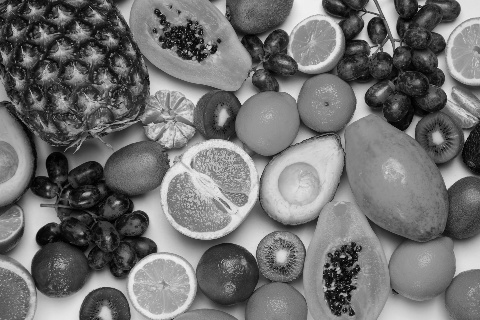
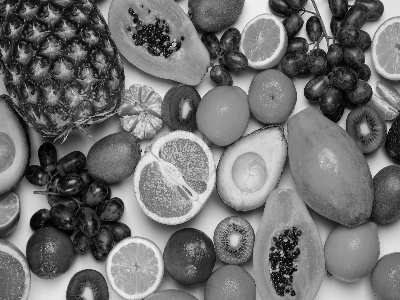
Some operations is missing

diff --git a/main.py b/main.py
@@ -5,167 +5,156 @@ import time
 import os
 
 # ==========================================
-# FUNGSI HELPER PENYIMPANAN
+# FUNGSI HELPER PENYIMPANAN & HISTOGRAM
 # ==========================================
 def save_image(img, name, folder='hasil_output'):
+    """Menyimpan gambar hasil pemrosesan ke folder hasil_output"""
     if not os.path.exists(folder):
         os.makedirs(folder)
     
-    # Konversi kembali ke BGR sebelum disimpan jika citra berwarna (RGB)
-    if len(img.shape) == 3:
-        img_to_save = cv2.cvtColor(img, cv2.COLOR_RGB2BGR)
-    else:
-        img_to_save = img
-        
+    # Konversi RGB ke BGR untuk OpenCV imwrite agar warna tidak tertukar
+    img_to_save = cv2.cvtColor(img, cv2.COLOR_RGB2BGR) if len(img.shape) == 3 else img
     path = os.path.join(folder, f"{name}.jpg")
     cv2.imwrite(path, img_to_save)
-    print(f"   [Saved] {path}")
+    print(f"   [Saved Image] {path}")
+
+def save_histogram_comparison(img_before, img_after, name, label_before="Sebelum", label_after="Sesudah", folder='hasil_output_bonus'):
+    """Membuat dan menyimpan plot perbandingan citra beserta histogramnya ke hasil_output_bonus"""
+    if not os.path.exists(folder):
+        os.makedirs(folder)
+
+    fig, axes = plt.subplots(2, 2, figsize=(12, 8))
+    
+    # Baris 1: Tampilan Citra
+    axes[0, 0].imshow(img_before, cmap='gray' if len(img_before.shape) == 2 else None)
+    axes[0, 0].set_title(f"Citra {label_before}")
+    axes[0, 1].imshow(img_after, cmap='gray' if len(img_after.shape) == 2 else None)
+    axes[0, 1].set_title(f"Citra {label_after}")
+
+    # Baris 2: Histogram
+    if len(img_before.shape) == 2: # Citra Grayscale
+        axes[1, 0].hist(img_before.ravel(), 256, [0, 256], color='black')
+        axes[1, 1].hist(img_after.ravel(), 256, [0, 256], color='black')
+    else: # Citra Berwarna (RGB)
+        colors = ('red', 'green', 'blue')
+        for i, col in enumerate(colors):
+            axes[1, 0].hist(img_before[:,:,i].ravel(), 256, [0, 256], color=col, alpha=0.5)
+            axes[1, 1].hist(img_after[:,:,i].ravel(), 256, [0, 256], color=col, alpha=0.5)
+
+    axes[1, 0].set_title(f"Histogram {label_before}")
+    axes[1, 1].set_title(f"Histogram {label_after}")
+    
+    plt.tight_layout()
+    path = os.path.join(folder, f"hist_{name}.png")
+    plt.savefig(path)
+    plt.close()
+    print(f"   [Saved Hist]  {path}")
 
 # ==========================================
-# 1. OPERASI TITIK [cite: 14]
+# FUNGSI OPERASI (Sesuai Tugas)
 # ==========================================
 def convert_to_grayscale(img_rgb, method='luminance'):
-    M, N, _ = img_rgb.shape
+    M, N = img_rgb.shape[:2]
     gray = np.zeros((M, N), dtype=np.uint8)
     for i in range(M):
         for j in range(N):
             R, G, B = img_rgb[i, j].astype(float)
-            if method == 'average': # [cite: 16]
-                gray[i, j] = (R + G + B) / 3
-            else: # [cite: 17]
-                gray[i, j] = (0.299 * R) + (0.587 * G) + (0.114 * B)
+            if method == 'average':
+                # [cite_start]Metode rata-rata: (R + G + B)/3 [cite: 16]
+                gray[i, j] = (R + G + B) / 3 
+            else:
+                # [cite_start]Metode luminance: 0.299R + 0.587G + 0.114B [cite: 17]
+                gray[i, j] = (0.299 * R) + (0.587 * G) + (0.114 * B) 
     return gray
 
-def adjust_negative(img): # [cite: 18]
+def adjust_brightness(img, b):
     M, N = img.shape[:2]
     res = np.zeros_like(img)
     for i in range(M):
         for j in range(N):
-            res[i, j] = 255 - img[i, j]
+            # [cite_start]f(x,y)' = f(x,y) + b [cite: 19]
+            res[i, j] = np.clip(img[i, j].astype(int) + b, 0, 255) 
     return res
 
-def adjust_brightness(img, b): # [cite: 19]
-    M, N = img.shape[:2]
-    res = np.zeros_like(img)
-    for i in range(M):
-        for j in range(N):
-            res[i, j] = np.clip(img[i, j].astype(int) + b, 0, 255)
-    return res
-
-def apply_threshold(gray_img, threshold): # [cite: 20]
+def apply_threshold(gray_img, threshold):
     M, N = gray_img.shape
     biner = np.zeros((M, N), dtype=np.uint8)
     for i in range(M):
         for j in range(N):
-            biner[i, j] = 255 if gray_img[i, j] > threshold else 0
+            # [cite_start]Thresholding biner [cite: 20]
+            biner[i, j] = 255 if gray_img[i, j] > threshold else 0 
     return biner
 
-# ==========================================
-# 2. OPERASI ARITMATIKA [cite: 21]
-# ==========================================
-def arithmetic_ops(img1, img2, scalar=1.5):
-    M, N, C = img1.shape
-    add = np.zeros_like(img1)
-    sub = np.zeros_like(img1)
-    mul = np.zeros_like(img1)
-    
-    for i in range(M):
-        for j in range(N):
-            for c in range(C):
-                # Penjumlahan, Pengurangan, & Perkalian Skalar [cite: 22, 23, 24]
-                add[i, j, c] = np.clip(int(img1[i, j, c]) + int(img2[i, j, c]), 0, 255)
-                sub[i, j, c] = np.clip(int(img1[i, j, c]) - int(img2[i, j, c]), 0, 255)
-                mul[i, j, c] = np.clip(img1[i, j, c] * scalar, 0, 255)
-    return add, sub, mul
-
-# ==========================================
-# 3. OPERASI LOKAL (FILTERING) [cite: 25]
-# ==========================================
-def mean_filter_3x3(gray_img): # [cite: 26]
+def mean_filter_3x3(gray_img):
     M, N = gray_img.shape
     res = np.zeros_like(gray_img)
+    # [cite_start]Mask 1/9 untuk mean filter [cite: 26]
     padded = np.pad(gray_img, ((1, 1), (1, 1)), mode='constant')
-    
     for i in range(M):
         for j in range(N):
             region = padded[i:i+3, j:j+3]
-            res[i, j] = np.sum(region) / 9
+            res[i, j] = np.sum(region) / 9 
     return res
-
-# ==========================================
-# 4. OPERASI BOOLEAN [cite: 28]
-# ==========================================
-def boolean_ops(bin1, bin2):
-    op_and = cv2.bitwise_and(bin1, bin2) # [cite: 29]
-    op_or = cv2.bitwise_or(bin1, bin2)   # [cite: 30]
-    op_not = cv2.bitwise_not(bin1)        # [cite: 31]
-    return op_and, op_or, op_not
-
-# ==========================================
-# 5. IMAGE BLENDING [cite: 33]
-# ==========================================
-def blend_images(img1, img2, alpha): # 
-    return (alpha * img1 + (1 - alpha) * img2).astype(np.uint8)
 
 # ==========================================
 # MAIN EXECUTION
 # ==========================================
 def main():
-    print("--- Memulai Skrip Pemrosesan Citra ---")
+    print("--- Memulai Skrip Pemrosesan Citra + Histogram ---")
     start_total = time.time()
-    out_dir = 'hasil_output'
+    
+    # Definisi direktori tujuan
+    proc_dir = 'hasil_output'       # Untuk file gambar hasil
+    bonus_dir = 'hasil_output_bonus' # Untuk file histogram bonus
 
     # 1. Load & Resize
-    print("[1/6] Memuat citra...")
+    # Pastikan file image1.jpg tersedia di folder yang sama
     img1 = cv2.cvtColor(cv2.imread('image1.jpg'), cv2.COLOR_BGR2RGB)
-    img2 = cv2.cvtColor(cv2.imread('image2.jpg'), cv2.COLOR_BGR2RGB)
-    img1 = cv2.resize(img1, (480, 320))
-    img2 = cv2.resize(img2, (480, 320))
-    save_image(img1, "00_original_resized", out_dir)
+    img1 = cv2.resize(img1, (400, 300)) # Resize agar loop manual lebih cepat
+    save_image(img1, "00_original", proc_dir)
 
-    # 2. Operasi Titik
-    print("[2/6] Memproses Operasi Titik...")
+    # [cite_start]2. Grayscale & Histogram (Analisis Luminance vs Average) [cite: 38]
+    print("[1/4] Memproses Grayscale & Histogram...")
     g_avg = convert_to_grayscale(img1, 'average')
     g_lum = convert_to_grayscale(img1, 'luminance')
-    negatif = adjust_negative(img1)
-    cerah = adjust_brightness(img1, 50)
-    bin_100 = apply_threshold(g_lum, 100)
-    bin_150 = apply_threshold(g_lum, 150)
     
-    save_image(g_avg, "01_gray_average", out_dir)
-    save_image(g_lum, "02_gray_luminance", out_dir)
-    save_image(negatif, "03_negatif", out_dir)
-    save_image(cerah, "04_brightness_plus_50", out_dir)
-    save_image(bin_100, "05_threshold_100", out_dir)
-    save_image(bin_150, "06_threshold_150", out_dir)
+    # Simpan gambar hasil pemrosesan
+    save_image(g_avg, "01_gray_average", proc_dir)
+    save_image(g_lum, "02_gray_luminance", proc_dir)
+    # Simpan histogram perbandingan di folder bonus
+    save_histogram_comparison(g_avg, g_lum, "grayscale_comp", "Average", "Luminance", folder=bonus_dir)
 
-    # 3. Operasi Aritmatika
-    print("[3/6] Memproses Operasi Aritmatika...")
-    tambah, kurang, kali = arithmetic_ops(img1, img2)
-    save_image(tambah, "07_aritmatika_tambah", out_dir)
-    save_image(kurang, "08_aritmatika_kurang", out_dir)
-    save_image(kali, "09_aritmatika_skalar", out_dir)
+    # [cite_start]3. Brightness & Histogram [cite: 39]
+    print("[2/4] Memproses Brightness & Histogram...")
+    img_bright = adjust_brightness(img1, 60)
+    
+    # Simpan gambar hasil pemrosesan
+    save_image(img_bright, "03_brightness_plus_60", proc_dir)
+    # Simpan histogram perbandingan di folder bonus
+    save_histogram_comparison(img1, img_bright, "brightness", "Original", "Bright (+60)", folder=bonus_dir)
 
-    # 4. Operasi Lokal
-    print("[4/6] Memproses Operasi Lokal (Filtering)...")
+    # [cite_start]4. Thresholding & Histogram [cite: 20]
+    print("[3/4] Memproses Thresholding...")
+    bin_127 = apply_threshold(g_lum, 127)
+    
+    # Simpan gambar hasil pemrosesan
+    save_image(bin_127, "04_threshold_127", proc_dir)
+    # Simpan histogram perbandingan di folder bonus
+    save_histogram_comparison(g_lum, bin_127, "thresholding", "Grayscale", "Biner (T=127)", folder=bonus_dir)
+
+    # [cite_start]5. Filtering (Lokal) [cite: 40]
+    print("[4/4] Memproses Filtering...")
     filtered = mean_filter_3x3(g_lum)
-    save_image(filtered, "10_mean_filter_3x3", out_dir)
-
-    # 5. Boolean & Blending
-    print("[5/6] Memproses Boolean & Blending...")
-    b_and, b_or, b_not = boolean_ops(bin_100, bin_150)
-    save_image(b_and, "11_boolean_AND", out_dir)
-    save_image(b_or, "12_boolean_OR", out_dir)
-    save_image(b_not, "13_boolean_NOT", out_dir)
     
-    for a in [0.3, 0.5, 0.7]: # 
-        blended = blend_images(img1, img2, a)
-        save_image(blended, f"14_blending_alpha_{a}", out_dir)
+    # Simpan gambar hasil pemrosesan
+    save_image(filtered, "05_mean_filtered", proc_dir)
+    # Simpan histogram perbandingan di folder bonus
+    save_histogram_comparison(g_lum, filtered, "filtering", "Grayscale_Original", "Filtered", folder=bonus_dir)
 
-    # 6. Finalisasi
-    end_total = time.time()
-    print(f"\n--- Selesai! Semua file disimpan di folder '{out_dir}' ---")
-    print(f"Total waktu: {end_total - start_total:.2f} detik")
+    print(f"\n--- Selesai! ---")
+    print(f"Gambar hasil di: '{proc_dir}'")
+    print(f"Histogram bonus di: '{bonus_dir}'")
+    print(f"Total waktu: {time.time() - start_total:.2f} detik")
 
 if __name__ == "__main__":
     main()
